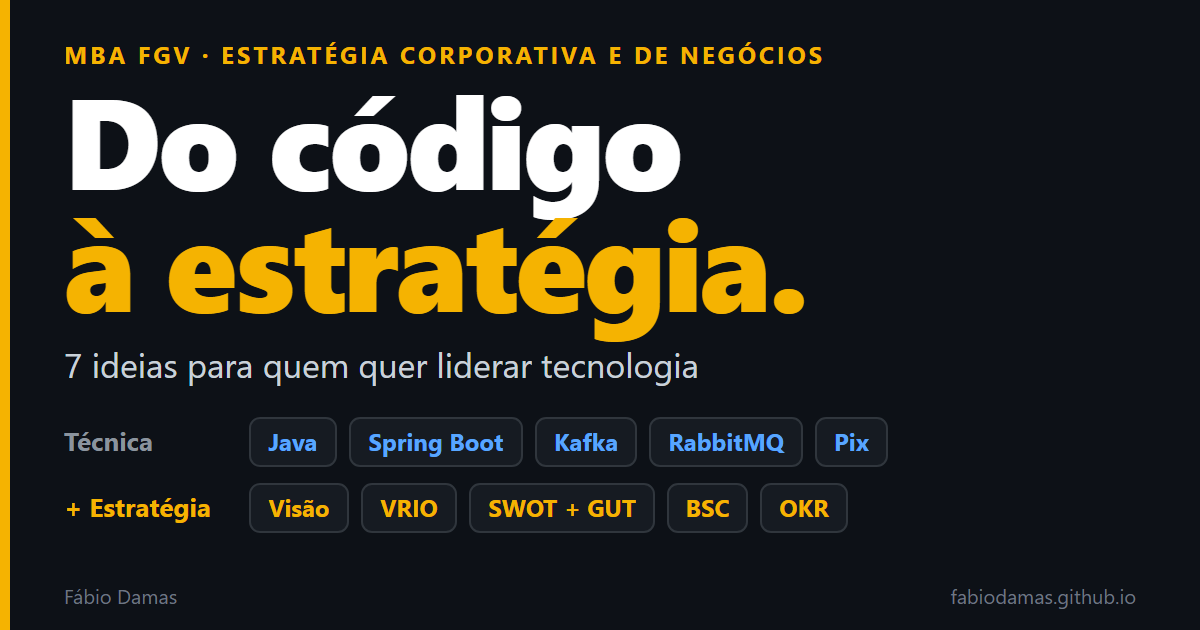
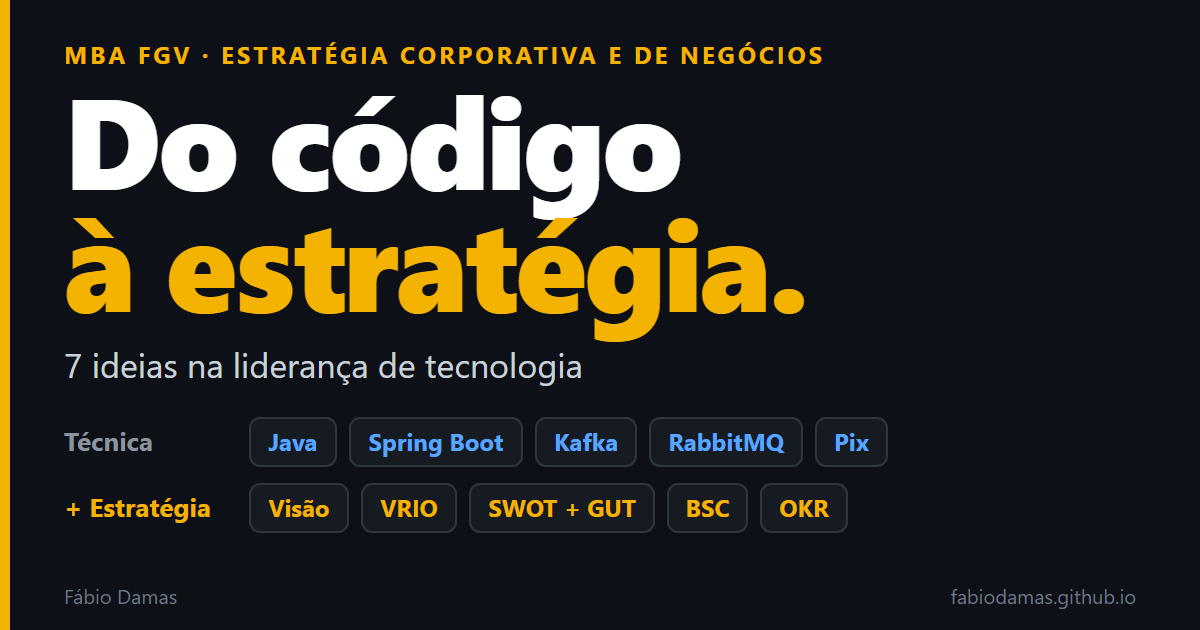
Artigo de estratégia: título na liderança de tecnologia, sem o nome do professor e com @FGV

Changed region(s): [[0.1542, 0.573, 0.5858, 0.6032]]

diff --git a/_posts/2026-10-29-do-codigo-a-estrategia.md b/_posts/2026-10-29-do-codigo-a-estrategia.md
@@ -1,9 +1,9 @@
 ---
-title: "Do código à estratégia: 7 ideias de estratégia corporativa para quem quer liderar tecnologia"
+title: "Do código à estratégia: 7 ideias de estratégia corporativa na liderança de tecnologia"
 published: true
 ---
 <head>
-    <meta property="og:title" content="Do código à estratégia: 7 ideias de estratégia corporativa para quem quer liderar tecnologia">
+    <meta property="og:title" content="Do código à estratégia: 7 ideias de estratégia corporativa na liderança de tecnologia">
     <meta property="og:description" content="Terminei o módulo de Estratégia Corporativa e de Negócios do MBA da FGV. As sete ideias que mais mudaram meu jeito de ver tecnologia, e como cada uma vira decisão no dia a dia de um time de backend.">
     <meta property="og:image" content="https://github.com/fabiodamas/fabiodamas.github.io/blob/master/_posts/images/estrategia/estrategia-cover.png?raw=true">
     <meta property="og:url" content="https://fabiodamas.github.io/2026/10/29/do-codigo-a-estrategia/">
@@ -12,10 +12,10 @@ published: true
 
 
 <div style="text-align: center; margin-bottom: 20px;">
-    <img style="width: 100%; height: auto; margin-bottom: 20px;" src="https://github.com/fabiodamas/fabiodamas.github.io/blob/master/_posts/images/estrategia/estrategia-cover.png?raw=true" alt="Do código à estratégia: 7 ideias para quem quer liderar tecnologia. Técnica: Java, Spring Boot, Kafka, RabbitMQ e Pix. Mais estratégia: visão, VRIO, SWOT e GUT, BSC e OKR">
+    <img style="width: 100%; height: auto; margin-bottom: 20px;" src="https://github.com/fabiodamas/fabiodamas.github.io/blob/master/_posts/images/estrategia/estrategia-cover.png?raw=true" alt="Do código à estratégia: 7 ideias na liderança de tecnologia. Técnica: Java, Spring Boot, Kafka, RabbitMQ e Pix. Mais estratégia: visão, VRIO, SWOT e GUT, BSC e OKR">
 </div>
 
-Nos últimos anos, meu dia a dia foi Java, Spring Boot, Kafka, RabbitMQ e Pix. Depois do MBA na FIAP, escolhi um MBA de gestão na FGV, e acabo de terminar o módulo de **Estratégia Corporativa e de Negócios**, com o professor David Lobato.
+Nos últimos anos, meu dia a dia foi Java, Spring Boot, Kafka, RabbitMQ e Pix. Depois do MBA na FIAP, escolhi um MBA de gestão na [@FGV](https://www.linkedin.com/school/fgv/), e acabo de terminar o módulo de **Estratégia Corporativa e de Negócios**.
 
 Fui para a disciplina querendo entender a linguagem de quem decide o que a tecnologia vai construir. Saí com perguntas que hoje faço antes de abrir a IDE: para quem? Por que agora? O que vamos deixar de fazer?
 
@@ -113,7 +113,7 @@ Um não substitui o outro: o BSC dá a visão integrada e plurianual da estraté
 
 Para um time de tecnologia, essa cascata resolve um problema antigo: ligar o trabalho técnico ao que a empresa mede. A visão diz aonde ir; o BSC, o que importa; o OKR, o que o time vai mover no trimestre; a GUT, por onde começar; e as métricas de entrega fecham o ciclo.
 
-## Por que isso importa para quem quer liderar tecnologia
+## Por que isso importa na liderança de tecnologia
 
 A diferença entre um especialista e um líder técnico não está em saber mais Java. Está em traduzir decisões técnicas para a linguagem da estratégia (cliente, risco, custo e prazo) e trazer a estratégia de volta para as decisões técnicas. Escolher entre Kafka e RabbitMQ é uma decisão técnica. Decidir que nenhum pagamento pode se perder é uma decisão de negócio, e ela vem antes.
 
@@ -157,7 +157,7 @@ E você, que vem da área técnica: qual dessas ferramentas já usa no dia a dia
 
 ## Referências
 
-- Disciplina Estratégia Corporativa e de Negócios, professor David Lobato, MBA FGV (aulas 1 a 5).
+- Disciplina Estratégia Corporativa e de Negócios, MBA FGV (aulas 1 a 5).
 - [Hamel, G.; Prahalad, C. K.: Competing for the Future, Harvard Business Review, jul-ago 1994](https://hbr.org/1994/07/competing-for-the-future)
 - Drucker, P. *O Executivo Eficaz*, 1966.
 - Barney, J. Firm Resources and Sustained Competitive Advantage. *Journal of Management*, 1991.
